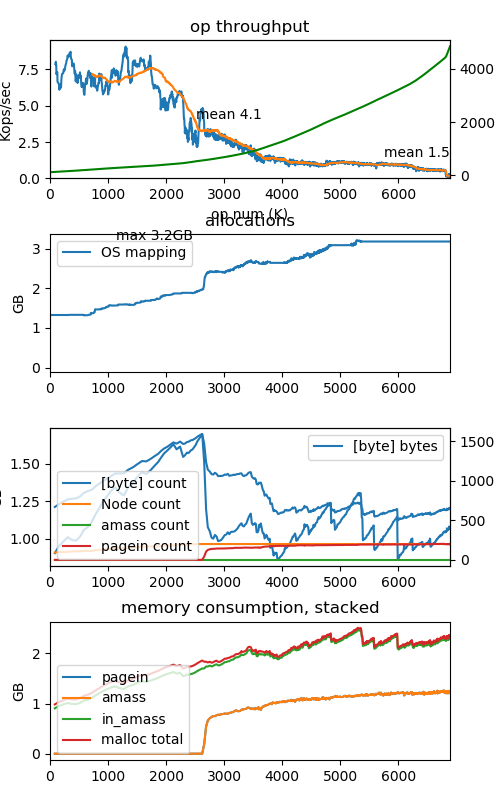
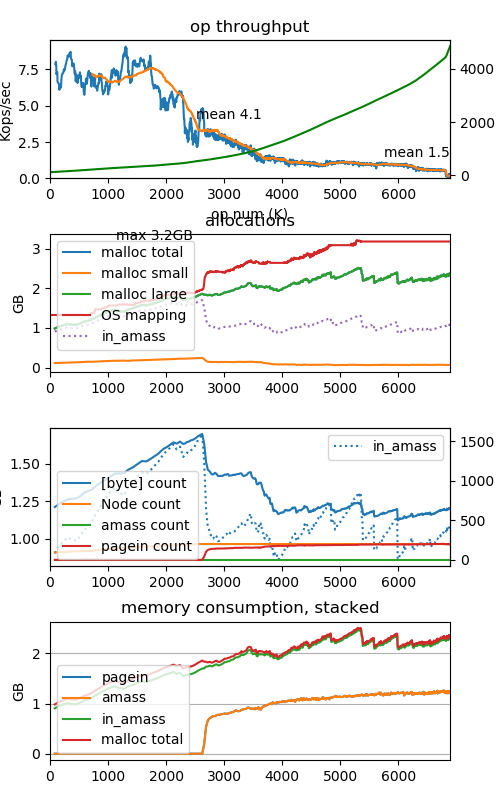
amass on pagein

diff --git a/malloc-exp/plot-timeseries.py b/malloc-exp/plot-timeseries.py
@@ -113,10 +113,11 @@ def parse(filename):
     def smoothedThroughput(ax, window):
         xs,ys = makePlot(ops_completed, lambda t: (ops_completed[t] - ops_completed[t-window])/float(window)/Kilo)
         ax.plot(xs, ys)
+        return ys[-1]
 
     def plotThroughput(ax):
         smoothedThroughput(ax, 10)
-        smoothedThroughput(ax, 100)
+        cur = smoothedThroughput(ax, 100)
         ax.set_xlim(left = 0, right=op_end)
         ax.set_ylim(bottom = 0)
         ax.set_title("op throughput")
@@ -128,7 +129,10 @@ def parse(filename):
             if time > xs[-1]:
                 return
             aggregate = (ops_completed[time] - ops_completed[xs[0]])/float(time-xs[0])/Kilo
-            ax.text(timeToOp(time), aggregate, "mean %.1f" % aggregate, horizontalalignment="right")
+            msg = "mean %.1f" % aggregate
+            if label == "end":
+                msg += "\ncur %.2f" % cur
+            ax.text(timeToOp(time), aggregate, msg, horizontalalignment="right")
         aggregateAt(xs[-1], "end")
         aggregateAt(1000, "1000s")
         
@@ -143,15 +147,16 @@ def parse(filename):
 
     def plotOSvsMalloc(ax):
         try:
-            line, = ax.plot(*makePlot(microscopes["total"], microscopes["total"][t].open_byte/GB))
+            line, = ax.plot(*makePlot(microscopes["total"], lambda t: microscopes["total"][t].open_byte/GB))
             line.set_label("malloc total")
-            line, = ax.plot(*makePlot(microscopes["coarse-small"], microscopes["coarse-small"][t].open_byte/GB))
+            line, = ax.plot(*makePlot(microscopes["coarse-small"], lambda t: microscopes["coarse-small"][t].open_byte/GB))
             line.set_label("malloc small")
-            line, = ax.plot(*makePlot(microscopes["coarse-small"],
+            line, = ax.plot(*makePlot(microscopes["coarse-small"], lambda t:
                 (microscopes["coarse-small"][t].open_byte + microscopes["coarse-large"][t].open_byte)/GB))
             line.set_label("malloc large")
         except:
-            pass    # sorry, no microscopes
+            #pass    # sorry, no microscopes
+            raise
         line, = ax.plot(*makePlot(os_map_total, lambda t: os_map_total[t]/GB))
         line.set_label("OS mapping")
 
@@ -166,11 +171,12 @@ def parse(filename):
 
     def plotAmass(ax):
         focus_bytearys = scopes["in_amass.[T = unsigned char]"]
-        line, = ax.plot(*makePlot(focus_bytearys, lambda t: focus_bytearys[t].open_byte/GB))
-        line.set_label("[byte] bytes");
+        line, = ax.plot(*makePlot(focus_bytearys, lambda t: focus_bytearys[t].open_byte/GB), linestyle="dotted")
+        line.set_label("in_amass");
         ax.set_ylabel("GB")
         ax.legend()
         ax.set_xlim(left = 0, right=op_end)
+    plotAmass(axes[1])
 
     def plotNodes(ax):
         a2twin = ax.twinx()
@@ -224,6 +230,7 @@ def parse(filename):
         ax.set_ylabel("GB")
         ax.set_title("memory consumption, stacked")
         ax.set_xlim(left = 0, right=op_end)
+        ax.grid(axis="y", both=True, b=True)
     try: plotMemStackChart(axes[3])
     except: pass
 
